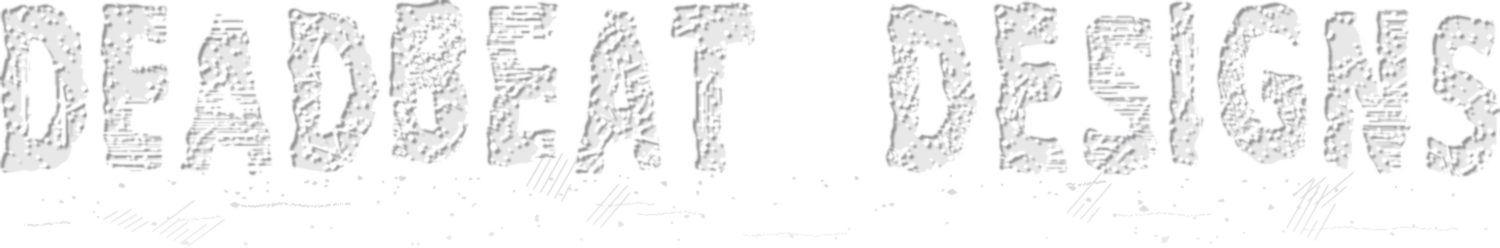
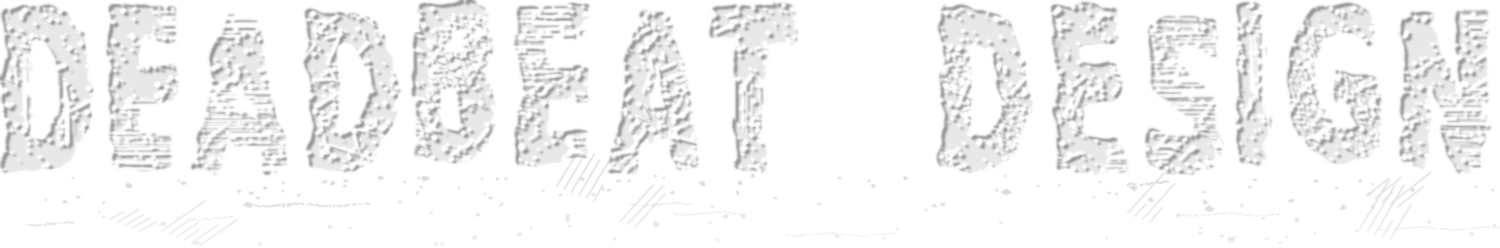
name change

diff --git a/alley-cats.html b/alley-cats.html
@@ -9,6 +9,18 @@
   <meta name="robots" content="index, follow, noai, noimageai">
   <meta name="author" content="Katana Calderwood">
   <meta name="copyright" content="© 2026 Calderwood Creations LLC">
+  <meta property="og:type" content="music.album">
+  <meta property="og:site_name" content="Deadbeat Design">
+  <meta property="og:title" content="Music: Half Submerged (Katana Calderwood), Bad Cable, Na Cait Shr&agrave;ide (The Alley Cats)">
+  <meta property="og:description" content="Half Submerged by Katana Calderwood. Bad Cable by Bad Cable. Na Cait Shr&agrave;ide by The Alley Cats: Alejandro Sanchez Medina and Katana Calderwood.">
+  <meta property="og:image" content="https://deadbeat.design/images/song-seeds-half-submerged-cd.webp">
+  <script type="application/ld+json">
+  {"@context":"https://schema.org","@graph":[
+   {"@type":"MusicAlbum","name":"Half Submerged","url":"https://soundcloud.com/katanacalderwood/sets/half-submerged","image":"https://deadbeat.design/images/song-seeds-half-submerged-cd.webp","byArtist":{"@type":"Person","name":"Katana Calderwood"},"creator":{"@type":"Person","name":"Katana Calderwood"},"copyrightHolder":{"@type":"Person","name":"Katana Calderwood"}},
+   {"@type":"MusicAlbum","name":"Bad Cable","url":"https://soundcloud.com/badcable","image":"https://deadbeat.design/images/bad-cable-cd.webp","byArtist":{"@type":"MusicGroup","name":"Bad Cable"}},
+   {"@type":"MusicAlbum","name":"Na Cait Shràide","url":"https://thealleycats.xyz","image":"https://deadbeat.design/images/alley-cats-cd.webp","byArtist":{"@type":"MusicGroup","name":"The Alley Cats","member":[{"@type":"Person","name":"Alejandro Sanchez Medina"},{"@type":"Person","name":"Katana Calderwood"}]}}
+  ]}
+  </script>
   <link rel="preconnect" href="https://fonts.googleapis.com">
   <link rel="preconnect" href="https://fonts.gstatic.com" crossorigin>
   <link href="https://fonts.googleapis.com/css2?family=Montserrat:wght@300;400;500;700&family=Open+Sans:wght@300;400&family=Chewy&family=Gochi+Hand&family=Anton&display=swap" rel="stylesheet">
@@ -41,7 +53,7 @@
 
   <!-- ===== HEADER (same on every page): edit name and menu here ===== -->
   <header class="site-header">
-    <a class="brand" href="index.html" aria-label="Deadbeat Designs"><picture><source srcset="images/brand-linocut.png"><img class="brand-lino brand-imprint" src="images/brand-imprint.png" alt="" width="1500" height="248"></picture></a>
+    <a class="brand" href="index.html" aria-label="Deadbeat Design"><picture><source srcset="images/brand-linocut.png"><img class="brand-lino brand-imprint" src="images/brand-imprint.png" alt="" width="1500" height="248"></picture></a>
     <input type="checkbox" id="navtoggle" class="nav-toggle" aria-label="Menu"><label for="navtoggle" class="nav-burger" aria-hidden="true"><i></i><i></i><i></i></label><label for="navtoggle" class="nav-backdrop" aria-hidden="true"></label>
     <nav aria-label="Main">
       <a href="architecture.html" data-text="Architecture">Architecture</a>
@@ -64,11 +76,11 @@
         <div class="bands bands-solo">
           <div class="band band-cd" id="song-seeds-half-submerged">
             <h3 class="sr-only">Half Submerged</h3>
-            <div class="cd-box"><a class="pick cd-pick cd-link" href="https://soundcloud.com/katanacalderwood/sets/half-submerged" target="_blank" rel="noopener" aria-label="Katana, Half Submerged: listen on SoundCloud"><img src="images/song-seeds-half-submerged-cd.webp" alt="Katana, Half Submerged, a CD in a jewel case: teal ocean-floor pattern with light green lettering and a light green disc" width="1076" height="701"></a></div>
+            <div class="cd-box"><a class="pick cd-pick cd-link" href="https://soundcloud.com/katanacalderwood/sets/half-submerged" target="_blank" rel="noopener" data-credit="Half Submerged by Katana Calderwood" aria-label="Katana Calderwood, Half Submerged: listen on SoundCloud"><img src="images/song-seeds-half-submerged-cd.webp" alt="Katana, Half Submerged, a CD in a jewel case: teal ocean-floor pattern with light green lettering and a light green disc" width="1076" height="701"></a></div>
           </div>
           <div class="band band-cd" id="bad-cable">
             <h3 class="sr-only">Bad Cable</h3>
-            <div class="cd-box"><a class="pick cd-pick cd-link" href="https://soundcloud.com/badcable" target="_blank" rel="noopener" aria-label="Bad Cable: listen on SoundCloud"><img src="images/bad-cable-cd.webp" alt="Bad Cable CD in a jewel case: white distressed lettering over power lines against a dusky sky, with the disc listing Misfit Drifter and Under Mars" width="1076" height="701"></a></div>
+            <div class="cd-box"><a class="pick cd-pick cd-link" href="https://soundcloud.com/badcable" target="_blank" rel="noopener" data-credit="Bad Cable by Bad Cable" aria-label="Bad Cable: listen on SoundCloud"><img src="images/bad-cable-cd.webp" alt="Bad Cable CD in a jewel case: white distressed lettering over power lines against a dusky sky, with the disc listing Misfit Drifter and Under Mars" width="1076" height="701"></a></div>
           </div>
           <div class="band band-cd" id="the-alekats">
             <h3 class="sr-only">The Alley Cats</h3>

diff --git a/style.css b/style.css
@@ -1152,9 +1152,9 @@ html, body, p, h1, h2, h3, li, a, summary { hyphens: none; -webkit-hyphens: none
 
 /* ===== LATEST 31: MOBILE ONLY (phones, up to 44rem wide). Nothing here applies to the desktop layout. ===== */
 @media (max-width: 44rem) {
-  /* name on phones reads "Deadbeat Designs", stretched to fill the header width; its box height does not grow */
+  /* name on phones reads "Deadbeat Design", stretched to fill the header width; its box height does not grow */
   .site-header .brand > span { display: none; }
-  .site-header .brand::after { content: "Deadbeat Designs"; }
+  .site-header .brand::after { content: "Deadbeat Design"; }
   .site-header .brand { align-self: stretch; transform: none; margin: 0; width: 100%; text-align: center; white-space: nowrap;
     font-size: calc((100vw - 2.5rem) / 7.9); height: 2.16rem; line-height: 2.16rem; overflow: visible; }
   /* menu: left side, indented, 5% smaller; rows are Art/Architecture/Music - Photography/Texts/About - CV/Contact */
@@ -1403,7 +1403,7 @@ img[src="images/hero.jpg"]{clip-path:polygon(0.0% 4.8%,0.9% 4.6%,1.8% 4.8%,2.8% 
 @media (max-width: 44rem) { .site-footer .vc-switch { font-size: 0.63rem; margin: 0.5rem 0 0; } }
 .vc-desktop-view .site-footer .vc-switch { font-size: 2.34rem; }
 
-/* ===== LATEST 39: DESKTOP ONLY - the Deadbeat Designs name is bigger so it fills the header space ===== */
+/* ===== LATEST 39: DESKTOP ONLY - the Deadbeat Design name is bigger so it fills the header space ===== */
 @media (min-width: 44.01rem) { .site-header .brand { zoom: 1.4; } }
 
 /* ===== LATEST 40: DESKTOP ONLY - About text as wide as the photo, About photo back to its plain original view (salmon lines intact); hero image 45% opacity ===== */
@@ -2426,7 +2426,7 @@ main.about.project.print .about-text > .full-size-btn { display: block; width: f
   }
 }
 
-/* LATEST 164: a simple light grey line under the Deadbeat Designs title bar (no change to the layout) */
+/* LATEST 164: a simple light grey line under the Deadbeat Design title bar (no change to the layout) */
 .site-header { box-shadow: 0 1px 0 #d9d9d9 !important; }
 
 /* LATEST 165: third CD on the Music page (Song Seeds: Unfinished Demos by Katana) */

diff --git a/cv.html b/cv.html
@@ -42,7 +42,7 @@
 
   <!-- ===== HEADER (same on every page): edit name and menu here ===== -->
   <header class="site-header">
-    <a class="brand" href="index.html" aria-label="Deadbeat Designs"><picture><source srcset="images/brand-linocut.png"><img class="brand-lino brand-imprint" src="images/brand-imprint.png" alt="" width="1500" height="248"></picture></a>
+    <a class="brand" href="index.html" aria-label="Deadbeat Design"><picture><source srcset="images/brand-linocut.png"><img class="brand-lino brand-imprint" src="images/brand-imprint.png" alt="" width="1500" height="248"></picture></a>
     <input type="checkbox" id="navtoggle" class="nav-toggle" aria-label="Menu"><label for="navtoggle" class="nav-burger" aria-hidden="true"><i></i><i></i><i></i></label><label for="navtoggle" class="nav-backdrop" aria-hidden="true"></label>
     <nav aria-label="Main">
       <a href="architecture.html" data-text="Architecture">Architecture</a>
@@ -73,7 +73,7 @@
       <section class="cv-sec">
         <h2>Experience</h2>
         <ul class="cv-list">
-          <li class="cv-job"><h3>Founder | Designer | Artist</h3><p class="cv-meta">Calderwood Creations LLC | Deadbeat Designs &middot; Contract &middot; November 2023 &ndash; Present</p>
+          <li class="cv-job"><h3>Founder | Designer | Artist</h3><p class="cv-meta">Calderwood Creations LLC | Deadbeat Design &middot; Contract &middot; November 2023 &ndash; Present</p>
             <p>Highlighted projects:</p>
             <ul><li><em>Algo(g)rave: The Manual for Dying</em>, Bombay Beach Biennale X, California, 2026</li><li><em>MACROdose Stage</em> (Do LaB), Coachella Music Festival, 2024</li></ul></li>
           <li class="cv-job"><h3>Construction &amp; Planning Specialist</h3><p class="cv-meta">Burning Man Project &middot; Full-time &middot; August 2024 &ndash; January 2026</p>

diff --git a/index.html b/index.html
@@ -12,7 +12,7 @@
   <link rel="preconnect" href="https://fonts.googleapis.com">
   <link rel="preconnect" href="https://fonts.gstatic.com" crossorigin>
   <link href="https://fonts.googleapis.com/css2?family=Montserrat:wght@300;400;500;700&family=Open+Sans:wght@300;400&family=Chewy&family=Gochi+Hand&family=Anton&display=swap" rel="stylesheet">
-  <link rel="canonical" href="https://kalderwood.github.io/architecture.html">
+  <link rel="canonical" href="https://deadbeat.design/architecture.html">
   <link rel="stylesheet" href="style.css">
 </head>
 <body>
@@ -42,7 +42,7 @@
 
   <!-- ===== HEADER (same on every page): edit name and menu here ===== -->
   <header class="site-header">
-    <a class="brand" href="index.html" aria-label="Deadbeat Designs"><picture><source srcset="images/brand-linocut.png"><img class="brand-lino brand-imprint" src="images/brand-imprint.png" alt="" width="1500" height="248"></picture></a>
+    <a class="brand" href="index.html" aria-label="Deadbeat Design"><picture><source srcset="images/brand-linocut.png"><img class="brand-lino brand-imprint" src="images/brand-imprint.png" alt="" width="1500" height="248"></picture></a>
     <input type="checkbox" id="navtoggle" class="nav-toggle" aria-label="Menu"><label for="navtoggle" class="nav-burger" aria-hidden="true"><i></i><i></i><i></i></label><label for="navtoggle" class="nav-backdrop" aria-hidden="true"></label>
     <nav aria-label="Main">
       <a href="architecture.html" aria-current="page" data-text="Architecture">Architecture</a>

diff --git a/architecture.html b/architecture.html
@@ -41,7 +41,7 @@
 
   <!-- ===== HEADER (same on every page): edit name and menu here ===== -->
   <header class="site-header">
-    <a class="brand" href="index.html" aria-label="Deadbeat Designs"><picture><source srcset="images/brand-linocut.png"><img class="brand-lino brand-imprint" src="images/brand-imprint.png" alt="" width="1500" height="248"></picture></a>
+    <a class="brand" href="index.html" aria-label="Deadbeat Design"><picture><source srcset="images/brand-linocut.png"><img class="brand-lino brand-imprint" src="images/brand-imprint.png" alt="" width="1500" height="248"></picture></a>
     <input type="checkbox" id="navtoggle" class="nav-toggle" aria-label="Menu"><label for="navtoggle" class="nav-burger" aria-hidden="true"><i></i><i></i><i></i></label><label for="navtoggle" class="nav-backdrop" aria-hidden="true"></label>
     <nav aria-label="Main">
       <a href="architecture.html" aria-current="page" data-text="Architecture">Architecture</a>

diff --git a/auris-interna.html b/auris-interna.html
@@ -41,7 +41,7 @@
 
   <!-- ===== HEADER (same on every page): edit name and menu here ===== -->
   <header class="site-header">
-    <a class="brand" href="index.html" aria-label="Deadbeat Designs"><picture><source srcset="images/brand-linocut.png"><img class="brand-lino brand-imprint" src="images/brand-imprint.png" alt="" width="1500" height="248"></picture></a>
+    <a class="brand" href="index.html" aria-label="Deadbeat Design"><picture><source srcset="images/brand-linocut.png"><img class="brand-lino brand-imprint" src="images/brand-imprint.png" alt="" width="1500" height="248"></picture></a>
     <input type="checkbox" id="navtoggle" class="nav-toggle" aria-label="Menu"><label for="navtoggle" class="nav-burger" aria-hidden="true"><i></i><i></i><i></i></label><label for="navtoggle" class="nav-backdrop" aria-hidden="true"></label>
     <nav aria-label="Main">
       <a href="architecture.html" aria-current="page" data-text="Architecture">Architecture</a>

diff --git a/belgrade-library-renovation.html b/belgrade-library-renovation.html
@@ -41,7 +41,7 @@
 
   <!-- ===== HEADER (same on every page): edit name and menu here ===== -->
   <header class="site-header">
-    <a class="brand" href="index.html" aria-label="Deadbeat Designs"><picture><source srcset="images/brand-linocut.png"><img class="brand-lino brand-imprint" src="images/brand-imprint.png" alt="" width="1500" height="248"></picture></a>
+    <a class="brand" href="index.html" aria-label="Deadbeat Design"><picture><source srcset="images/brand-linocut.png"><img class="brand-lino brand-imprint" src="images/brand-imprint.png" alt="" width="1500" height="248"></picture></a>
     <input type="checkbox" id="navtoggle" class="nav-toggle" aria-label="Menu"><label for="navtoggle" class="nav-burger" aria-hidden="true"><i></i><i></i><i></i></label><label for="navtoggle" class="nav-backdrop" aria-hidden="true"></label>
     <nav aria-label="Main">
       <a href="architecture.html" aria-current="page" data-text="Architecture">Architecture</a>

diff --git a/ceresoma.html b/ceresoma.html
@@ -41,7 +41,7 @@
 
   <!-- ===== HEADER (same on every page): edit name and menu here ===== -->
   <header class="site-header">
-    <a class="brand" href="index.html" aria-label="Deadbeat Designs"><picture><source srcset="images/brand-linocut.png"><img class="brand-lino brand-imprint" src="images/brand-imprint.png" alt="" width="1500" height="248"></picture></a>
+    <a class="brand" href="index.html" aria-label="Deadbeat Design"><picture><source srcset="images/brand-linocut.png"><img class="brand-lino brand-imprint" src="images/brand-imprint.png" alt="" width="1500" height="248"></picture></a>
     <input type="checkbox" id="navtoggle" class="nav-toggle" aria-label="Menu"><label for="navtoggle" class="nav-burger" aria-hidden="true"><i></i><i></i><i></i></label><label for="navtoggle" class="nav-backdrop" aria-hidden="true"></label>
     <nav aria-label="Main">
       <a href="architecture.html" aria-current="page" data-text="Architecture">Architecture</a>

diff --git a/cherry-river-wildlife-observatory.html b/cherry-river-wildlife-observatory.html
@@ -41,7 +41,7 @@
 
   <!-- ===== HEADER (same on every page): edit name and menu here ===== -->
   <header class="site-header">
-    <a class="brand" href="index.html" aria-label="Deadbeat Designs"><picture><source srcset="images/brand-linocut.png"><img class="brand-lino brand-imprint" src="images/brand-imprint.png" alt="" width="1500" height="248"></picture></a>
+    <a class="brand" href="index.html" aria-label="Deadbeat Design"><picture><source srcset="images/brand-linocut.png"><img class="brand-lino brand-imprint" src="images/brand-imprint.png" alt="" width="1500" height="248"></picture></a>
     <input type="checkbox" id="navtoggle" class="nav-toggle" aria-label="Menu"><label for="navtoggle" class="nav-burger" aria-hidden="true"><i></i><i></i><i></i></label><label for="navtoggle" class="nav-backdrop" aria-hidden="true"></label>
     <nav aria-label="Main">
       <a href="architecture.html" aria-current="page" data-text="Architecture">Architecture</a>

diff --git a/hrdc-tiny-home-village.html b/hrdc-tiny-home-village.html
@@ -41,7 +41,7 @@
 
   <!-- ===== HEADER (same on every page): edit name and menu here ===== -->
   <header class="site-header">
-    <a class="brand" href="index.html" aria-label="Deadbeat Designs"><picture><source srcset="images/brand-linocut.png"><img class="brand-lino brand-imprint" src="images/brand-imprint.png" alt="" width="1500" height="248"></picture></a>
+    <a class="brand" href="index.html" aria-label="Deadbeat Design"><picture><source srcset="images/brand-linocut.png"><img class="brand-lino brand-imprint" src="images/brand-imprint.png" alt="" width="1500" height="248"></picture></a>
     <input type="checkbox" id="navtoggle" class="nav-toggle" aria-label="Menu"><label for="navtoggle" class="nav-burger" aria-hidden="true"><i></i><i></i><i></i></label><label for="navtoggle" class="nav-backdrop" aria-hidden="true"></label>
     <nav aria-label="Main">
       <a href="architecture.html" aria-current="page" data-text="Architecture">Architecture</a>

diff --git a/hydrocache-hub.html b/hydrocache-hub.html
@@ -41,7 +41,7 @@
 
   <!-- ===== HEADER (same on every page): edit name and menu here ===== -->
   <header class="site-header">
-    <a class="brand" href="index.html" aria-label="Deadbeat Designs"><picture><source srcset="images/brand-linocut.png"><img class="brand-lino brand-imprint" src="images/brand-imprint.png" alt="" width="1500" height="248"></picture></a>
+    <a class="brand" href="index.html" aria-label="Deadbeat Design"><picture><source srcset="images/brand-linocut.png"><img class="brand-lino brand-imprint" src="images/brand-imprint.png" alt="" width="1500" height="248"></picture></a>
     <input type="checkbox" id="navtoggle" class="nav-toggle" aria-label="Menu"><label for="navtoggle" class="nav-burger" aria-hidden="true"><i></i><i></i><i></i></label><label for="navtoggle" class="nav-backdrop" aria-hidden="true"></label>
     <nav aria-label="Main">
       <a href="architecture.html" aria-current="page" data-text="Architecture">Architecture</a>

diff --git a/hyundai-cheonan-global-learning-center.html b/hyundai-cheonan-global-learning-center.html
@@ -41,7 +41,7 @@
 
   <!-- ===== HEADER (same on every page): edit name and menu here ===== -->
   <header class="site-header">
-    <a class="brand" href="index.html" aria-label="Deadbeat Designs"><picture><source srcset="images/brand-linocut.png"><img class="brand-lino brand-imprint" src="images/brand-imprint.png" alt="" width="1500" height="248"></picture></a>
+    <a class="brand" href="index.html" aria-label="Deadbeat Design"><picture><source srcset="images/brand-linocut.png"><img class="brand-lino brand-imprint" src="images/brand-imprint.png" alt="" width="1500" height="248"></picture></a>
     <input type="checkbox" id="navtoggle" class="nav-toggle" aria-label="Menu"><label for="navtoggle" class="nav-burger" aria-hidden="true"><i></i><i></i><i></i></label><label for="navtoggle" class="nav-backdrop" aria-hidden="true"></label>
     <nav aria-label="Main">
       <a href="architecture.html" aria-current="page" data-text="Architecture">Architecture</a>
